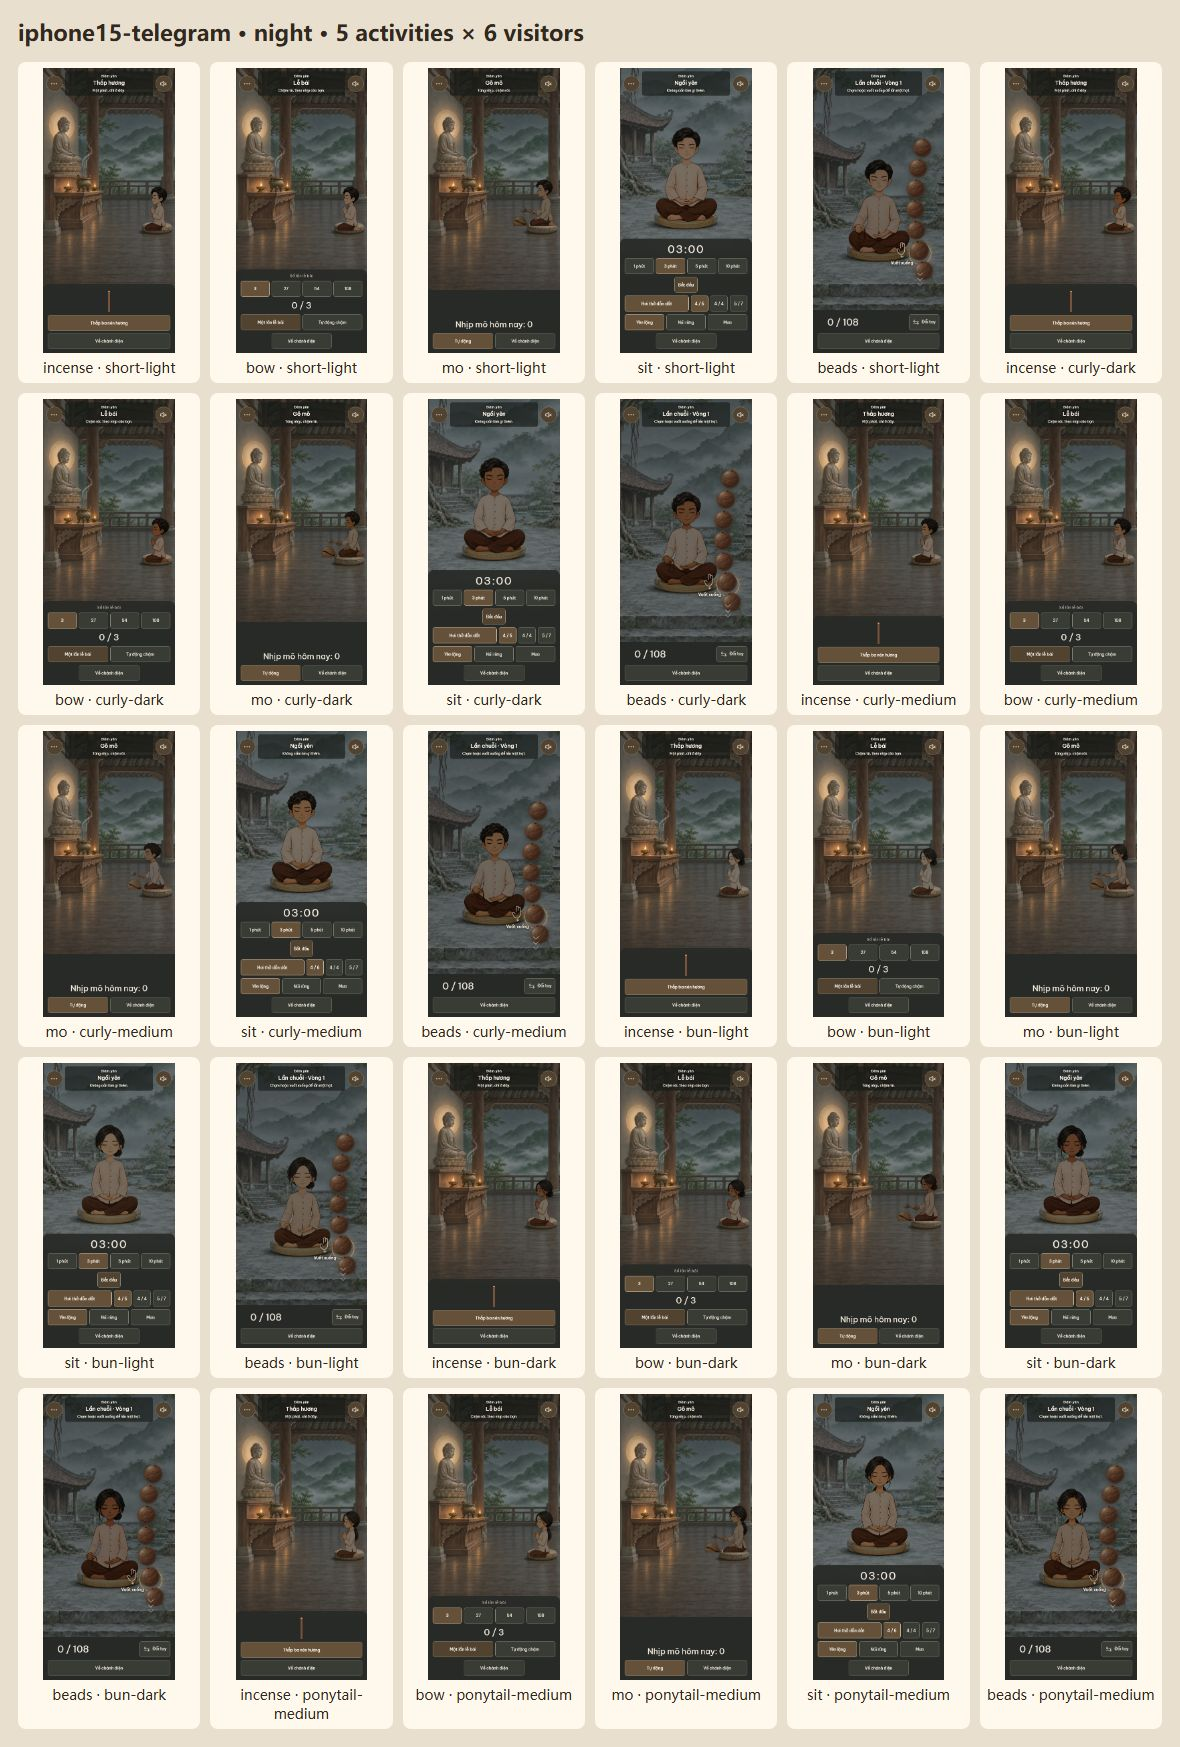
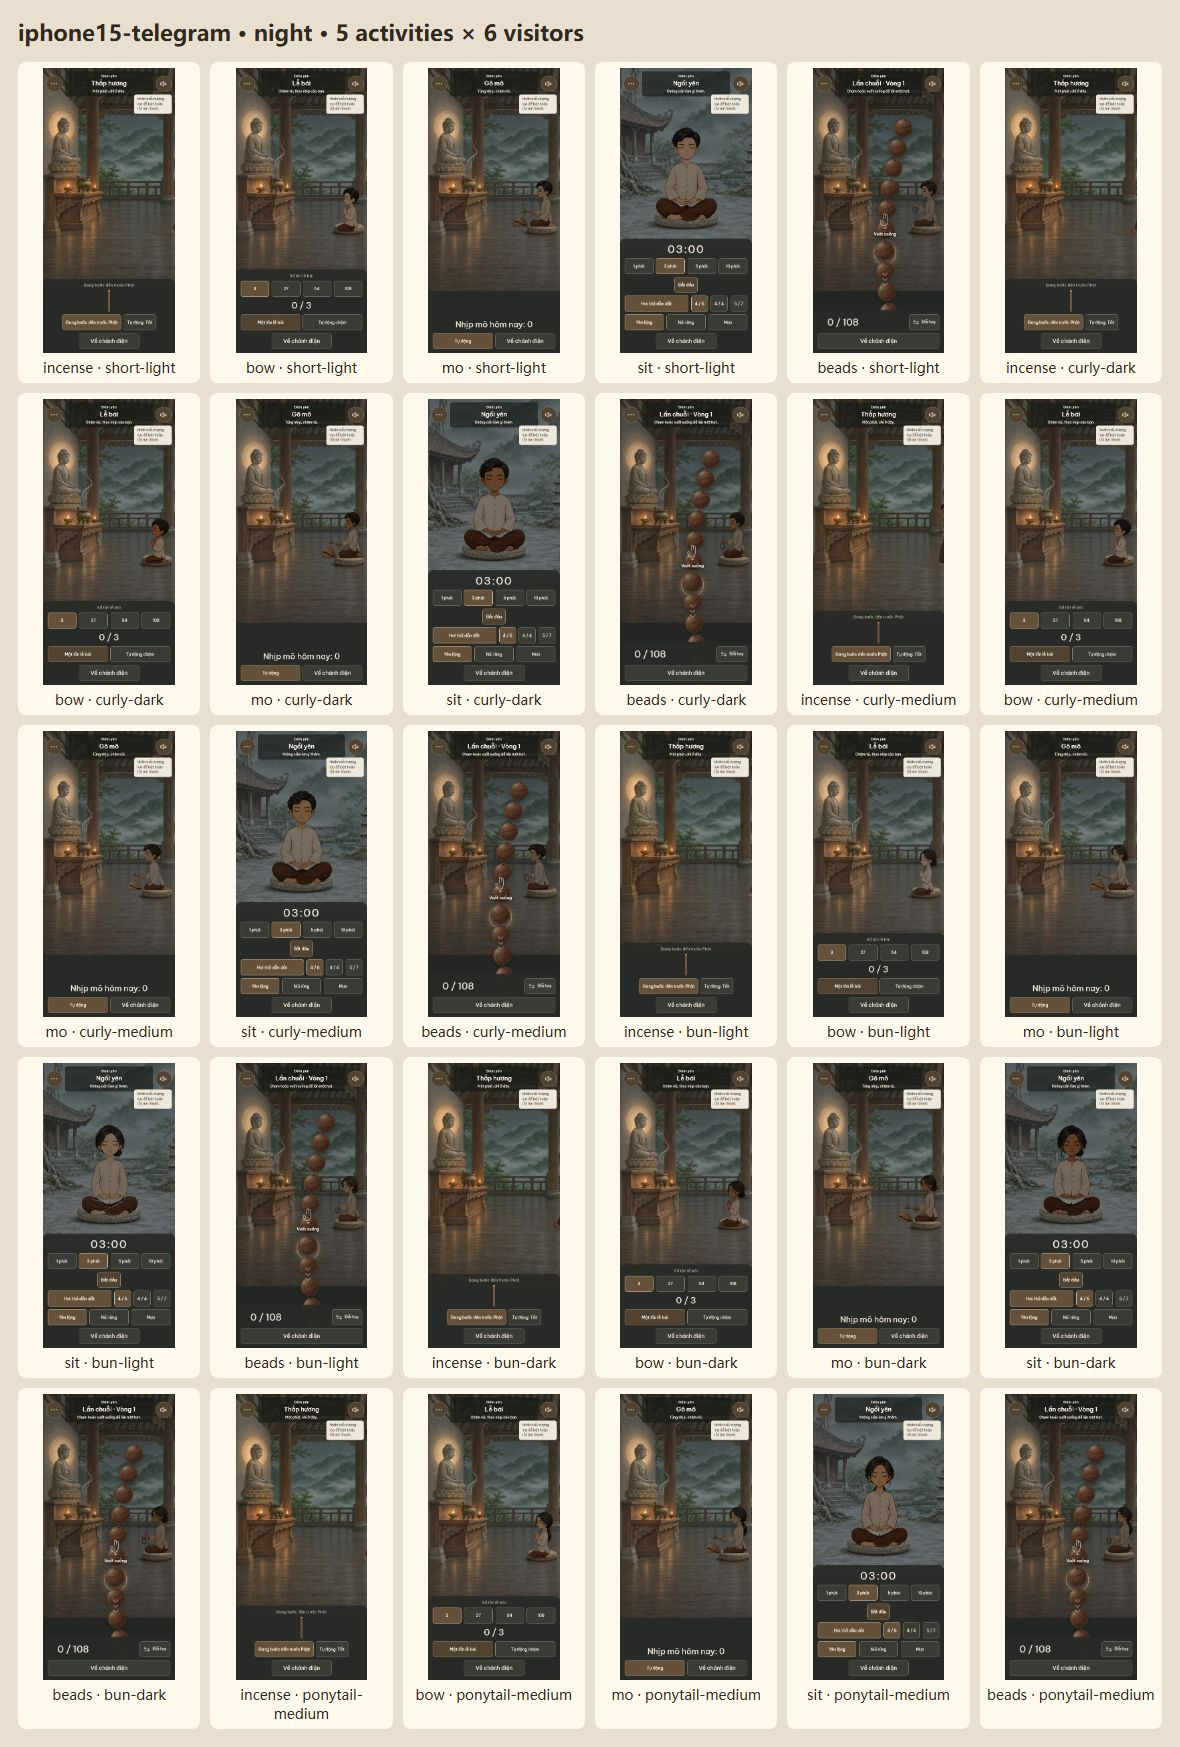
test: align cushion baseline with incense ritual

diff --git a/tests/cushion-share-regression.py b/tests/cushion-share-regression.py
@@ -99,7 +99,8 @@ def main():
                     click(page, "continue"); settled(page, "home")
                     for activity in ACTIVITIES:
                         click(page, activity); settled(page, activity)
-                        assert page.locator("#scene").get_attribute("data-cushion-policy") == "scene"
+                        expected_cushion = "hidden" if activity == "incense" else "scene"
+                        assert page.locator("#scene").get_attribute("data-cushion-policy") == expected_cushion
                         assert page.locator("#scene").get_attribute("data-visitor") == visitor
                         cells.append((f"{activity} · {visitor}", page.screenshot()))
                         click(page, "home"); settled(page, "home")
